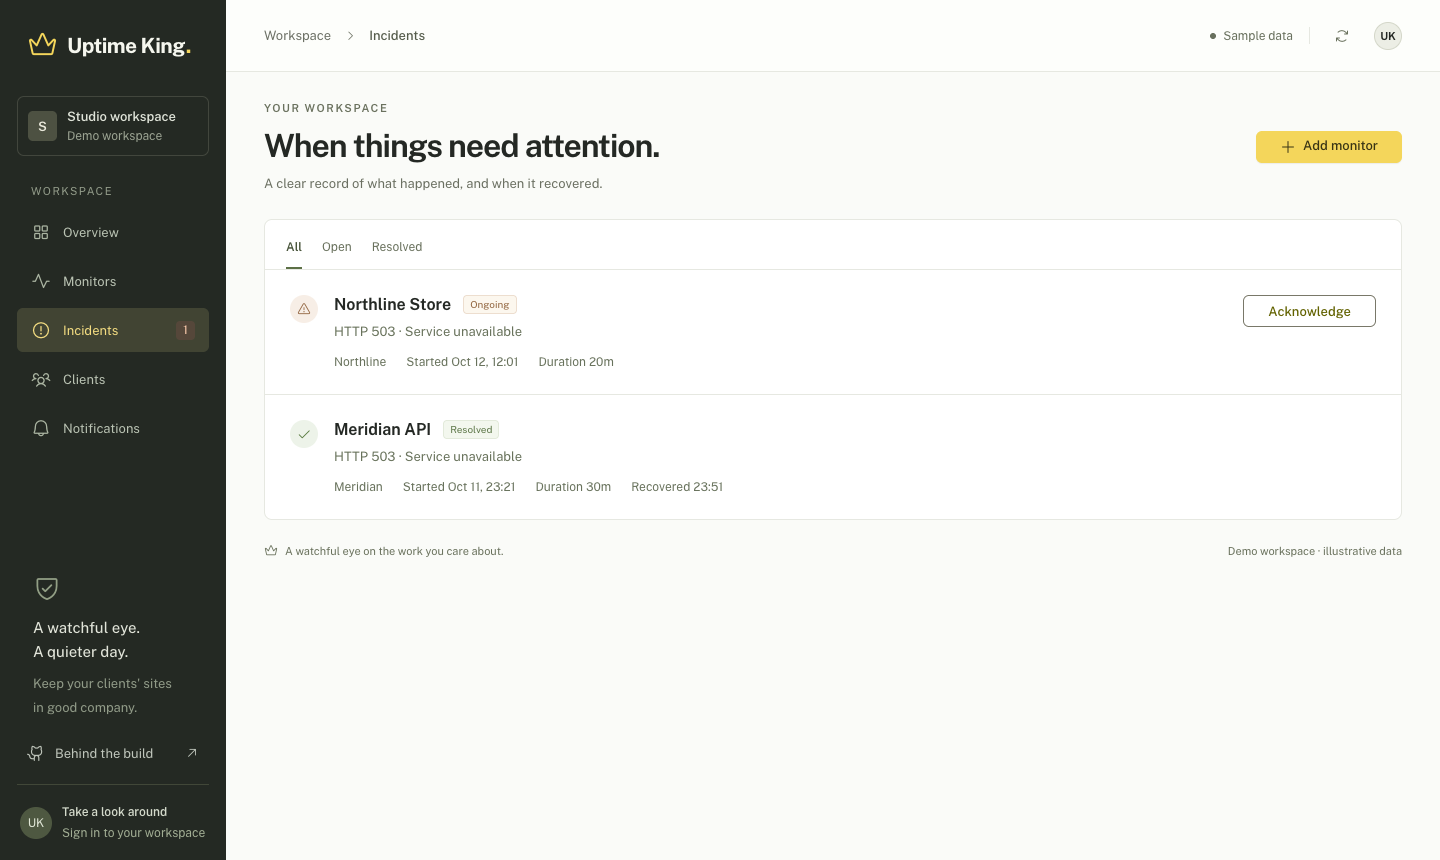
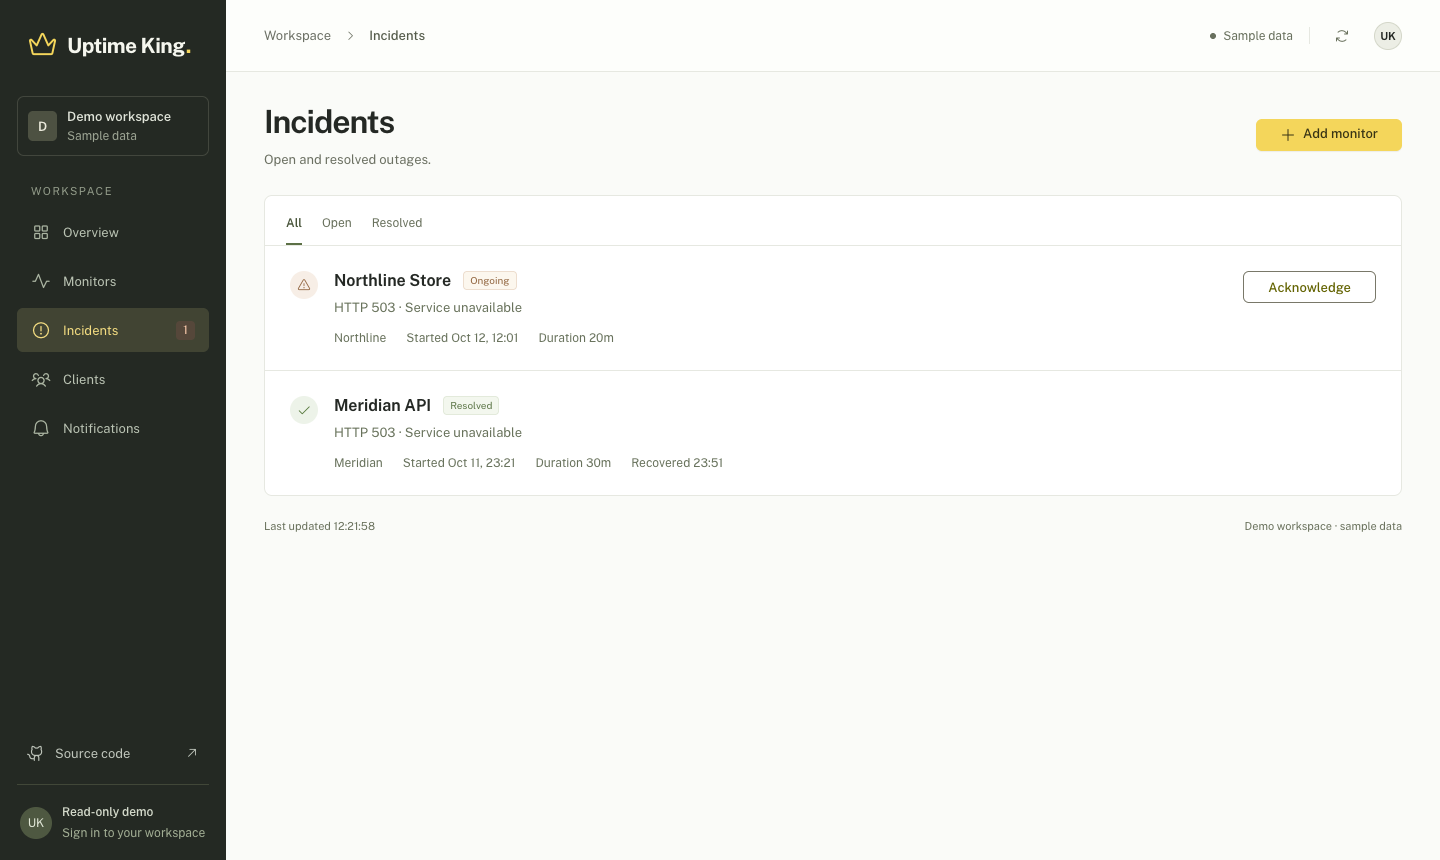
Replace dashboard slogans with direct interface copy

diff --git a/src/UptimeKing.Web/src/app/workspace.html b/src/UptimeKing.Web/src/app/workspace.html
@@ -17,10 +17,10 @@
     King<span class="brand-period">.</span></a
   >
   <div class="workspace-switch">
-    <span class="workspace-avatar">S</span>
+    <span class="workspace-avatar">{{ api.authenticated() ? 'W' : 'D' }}</span>
     <div>
-      <strong>{{ api.authenticated() ? 'Your workspace' : 'Studio workspace' }}</strong
-      ><span>{{ api.authenticated() ? 'Workspace operator' : 'Demo workspace' }}</span>
+      <strong>{{ api.authenticated() ? 'Your workspace' : 'Demo workspace' }}</strong
+      ><span>{{ api.authenticated() ? 'Workspace operator' : 'Sample data' }}</span>
     </div>
   </div>
   <div class="nav-caption">WORKSPACE</div>
@@ -37,25 +37,20 @@
     }
   </nav>
   <div class="sidebar-bottom">
-    <div class="quiet-note">
-      <i class="ph ph-shield-check" aria-hidden="true"></i
-      ><strong>A watchful eye.<br />A quieter day.</strong>
-      <p>Keep your clients' sites<br />in good company.</p>
-    </div>
     <a
       class="source-link"
       href="https://github.com/Vheissu/uptime-king"
       target="_blank"
       rel="noopener"
-      ><i class="ph ph-github-logo" aria-hidden="true"></i>Behind the build<i
+      ><i class="ph ph-github-logo" aria-hidden="true"></i>Source code<i
         class="ph ph-arrow-up-right"
         aria-hidden="true"
       ></i
     ></a>
     <div class="operator">
-      <span class="operator-avatar">{{ api.authenticated() ? 'YO' : 'UK' }}</span>
+      <span class="operator-avatar">{{ api.authenticated() ? 'OP' : 'UK' }}</span>
       <div>
-        <strong>{{ api.authenticated() ? 'Workspace operator' : 'Take a look around' }}</strong
+        <strong>{{ api.authenticated() ? 'Workspace operator' : 'Read-only demo' }}</strong
         ><button (click)="api.authenticated() ? signOut() : signIn()">
           {{ api.authenticated() ? 'Sign out' : 'Sign in to your workspace' }}
         </button>
@@ -97,37 +92,24 @@
         (click)="refresh()"
       >
         <i class="ph ph-arrows-clockwise"></i></button
-      ><span class="small-avatar">{{ api.authenticated() ? 'YO' : 'UK' }}</span>
+      ><span class="small-avatar">{{ api.authenticated() ? 'OP' : 'UK' }}</span>
     </div>
   </header>
   <main id="main" tabindex="-1">
     <div class="page-heading">
       <div>
-        <div class="eyebrow">{{ view === 'overview' ? 'THE BIG PICTURE' : 'YOUR WORKSPACE' }}</div>
-        <h1>
-          {{
-            view === 'overview'
-              ? 'A little peace of mind.'
-              : view === 'monitors'
-                ? 'Every site. In sight.'
-                : view === 'incidents'
-                  ? 'When things need attention.'
-                  : view === 'clients'
-                    ? 'Good work. Good company.'
-                    : 'The right heads-up.'
-          }}
-        </h1>
+        <h1>{{ title }}</h1>
         <p>
           {{
             view === 'overview'
-              ? 'Your client sites, all accounted for.'
+              ? 'Uptime and response times across your client sites.'
               : view === 'monitors'
-                ? 'Keep an eye on the websites and applications you look after.'
+                ? 'Manage checks for your websites and applications.'
                 : view === 'incidents'
-                  ? 'A clear record of what happened, and when it recovered.'
+                  ? 'Open and resolved outages.'
                   : view === 'clients'
-                    ? 'A home for every client you look after.'
-                    : 'Know when a site goes down, and when it comes back.'
+                    ? 'Monitor status grouped by client.'
+                    : 'Email and Discord alerts for outages and recoveries.'
           }}
         </p>
       </div>
@@ -146,7 +128,7 @@
     @if (api.loading()) {
       <div class="loading-state" role="status">
         <div class="loading-line"></div>
-        <p>Getting your workspace ready…</p>
+        <p>Loading monitors…</p>
       </div>
     }
     @if (api.data(); as data) {
@@ -183,9 +165,7 @@
               }}<span class="incident-spark" [class.healthy]="!data.summary.openIncidents"></span
             ></strong>
             <p>
-              {{
-                data.summary.openIncidents ? 'A little attention needed' : 'All quiet on this front'
-              }}
+              {{ data.summary.openIncidents ? 'Unresolved outages' : 'No unresolved outages' }}
             </p>
           </div>
         </section>
@@ -193,7 +173,7 @@
           <a class="incident-banner" routerLink="/incidents"
             ><span class="incident-icon"><i class="ph ph-warning" aria-hidden="true"></i></span
             ><span
-              ><strong>{{ incident.monitorName }} needs your attention.</strong
+              ><strong>{{ incident.monitorName }} is down</strong
               ><span>{{ incident.cause }} · Open for {{ duration(incident) }}</span></span
             ><span class="incident-link"
               >View incident<i class="ph ph-arrow-right" aria-hidden="true"></i></span
@@ -209,7 +189,7 @@
         <section class="monitor-section">
           <div class="section-heading">
             <div class="section-title">
-              <h2>Your monitors</h2>
+              <h2>Monitors</h2>
               <span class="count">{{ data.monitors.length }}</span>
             </div>
             <div class="table-controls">
@@ -340,17 +320,13 @@
                       <div class="empty-state">
                         <i class="ph ph-binoculars" aria-hidden="true"></i>
                         <h3>
-                          {{
-                            data.monitors.length
-                              ? 'No monitors match.'
-                              : 'Your first monitor starts here.'
-                          }}
+                          {{ data.monitors.length ? 'No monitors match.' : 'No monitors yet.' }}
                         </h3>
                         <p>
                           {{
                             data.monitors.length
                               ? 'Try another search or clear your filters.'
-                              : 'Add a client website and we’ll start keeping watch.'
+                              : 'Add a website URL to start recording checks.'
                           }}
                         </p>
                         @if (data.monitors.length) {
@@ -361,7 +337,7 @@
                             Clear filters
                           </button>
                         } @else {
-                          <button mat-flat-button (click)="add()">Add your first monitor</button>
+                          <button mat-flat-button (click)="add()">Add monitor</button>
                         }
                       </div>
                     </td>
@@ -375,7 +351,7 @@
             ><span
               ><i class="ph ph-clock" aria-hidden="true"></i
               >{{
-                data.isDemo ? 'Illustrative check history' : 'Checks run on each monitor’s schedule'
+                data.isDemo ? 'Sample check history' : 'Checks run on each monitor’s schedule'
               }}</span
             >
           </div>
@@ -387,7 +363,7 @@
             <div class="section-heading">
               <div>
                 <h2>Response time</h2>
-                <p>The pace of your portfolio.</p>
+                <p>Hourly averages across all monitors.</p>
               </div>
               <span class="period-label"
                 >Last 24 hours<i class="ph ph-clock" aria-hidden="true"></i
@@ -439,16 +415,14 @@
                 <text x="600" y="202">{{ data.asOf | date: 'HH:mm' }}</text>
               </svg>
             } @else {
-              <div class="empty-chart">
-                Your response history will appear after the first check.
-              </div>
+              <div class="empty-chart">Response history appears after the first check.</div>
             }
           </section>
           <section class="activity-panel">
             <div class="section-heading">
               <div>
                 <h2>Recent incidents</h2>
-                <p>The things worth knowing.</p>
+                <p>Latest outages and recoveries.</p>
               </div>
               <a routerLink="/incidents" class="text-link"
                 >View all<i class="ph ph-arrow-up-right" aria-hidden="true"></i
@@ -477,7 +451,7 @@
               } @empty {
                 <div class="empty-state compact">
                   <i class="ph ph-check-circle" aria-hidden="true"></i>
-                  <p>No incidents to report.</p>
+                  <p>No incidents recorded.</p>
                 </div>
               }
             </div>
@@ -526,7 +500,7 @@
           } @empty {
             <div class="empty-state">
               <i class="ph ph-check-circle" aria-hidden="true"></i>
-              <h3>All quiet here.</h3>
+              <h3>No incidents</h3>
               <p>No {{ incidentFilter() === 'all' ? '' : incidentFilter() }} incidents to show.</p>
             </div>
           }
@@ -555,7 +529,7 @@
             </button>
           } @empty {
             <div class="empty-state">
-              <h3>Meet your first client.</h3>
+              <h3>No clients yet</h3>
               <p>Clients appear here when you add their first monitor.</p>
               <button mat-flat-button (click)="add()">Add a monitor</button>
             </div>
@@ -568,11 +542,8 @@
             <div class="notification-illustration">
               <i class="ph ph-bell-ringing" aria-hidden="true"></i>
             </div>
-            <h2>A heads-up, wherever you work.</h2>
-            <p>
-              Receive incident and recovery alerts by email or in your Discord channel. Sign in to
-              connect your workspace.
-            </p>
+            <h2>Configure notifications</h2>
+            <p>Sign in to choose an email recipient or add a Discord webhook.</p>
             <div class="channel-previews">
               <span><i class="ph ph-envelope-simple" aria-hidden="true"></i>Email</span
               ><span><i class="ph ph-discord-logo" aria-hidden="true"></i>Discord</span>
@@ -592,7 +563,7 @@
                   ></span>
                   <div>
                     <h2>Email</h2>
-                    <p>Incident reports, straight to your inbox.</p>
+                    <p>Send alerts to an email address.</p>
                   </div>
                   <mat-slide-toggle
                     name="emailEnabled"
@@ -624,7 +595,7 @@
                   ></span>
                   <div>
                     <h2>Discord</h2>
-                    <p>Keep your team in the loop.</p>
+                    <p>Post alerts to a Discord channel.</p>
                   </div>
                   <mat-slide-toggle
                     name="discordEnabled"
@@ -682,11 +653,9 @@
         }
       }
       <footer class="page-footer">
-        <span
-          ><i class="ph ph-crown-simple" aria-hidden="true"></i>A watchful eye on the work you care
-          about.</span
-        ><span>{{
-          data.isDemo ? 'Demo workspace · illustrative data' : 'Uptime King · your workspace'
+        <span>Last updated {{ data.asOf | date: 'HH:mm:ss' }}</span>
+        <span>{{
+          data.isDemo ? 'Demo workspace · sample data' : 'Uptime King · your workspace'
         }}</span>
       </footer>
     }

diff --git a/src/UptimeKing.Web/src/app/dialogs.ts b/src/UptimeKing.Web/src/app/dialogs.ts
@@ -22,13 +22,11 @@ const imports = [
   selector: 'uk-monitor-dialog',
   imports,
   template: ` <h2 mat-dialog-title>
-      {{ original ? 'Edit monitor' : 'A new site to look after.' }}
+      {{ original ? 'Edit monitor' : 'Add monitor' }}
     </h2>
     <form (ngSubmit)="save()" #form="ngForm">
       <mat-dialog-content>
-        <p class="dialog-intro">
-          Check a public website or application. We'll keep the history and flag repeated failures.
-        </p>
+        <p class="dialog-intro">Monitor a public HTTP or HTTPS endpoint.</p>
         <mat-form-field appearance="outline"
           ><mat-label>Monitor name</mat-label
           ><input
@@ -122,11 +120,11 @@ export class MonitorDialog {
 @Component({
   selector: 'uk-login-dialog',
   imports,
-  template: ` <h2 mat-dialog-title>Your workspace, at a glance.</h2>
+  template: ` <h2 mat-dialog-title>Sign in</h2>
     <form (ngSubmit)="login()" #form="ngForm">
       <mat-dialog-content>
         <p class="dialog-intro">
-          Sign in with your workspace password to add monitors and manage notifications.
+          Enter your workspace password to manage monitors and notifications.
         </p>
         <mat-form-field appearance="outline"
           ><mat-label>Workspace password</mat-label
@@ -145,7 +143,7 @@ export class MonitorDialog {
           For a local installation, use the password in your .env file.
         </p> </mat-dialog-content
       ><mat-dialog-actions align="end"
-        ><button type="button" mat-button mat-dialog-close>Keep exploring</button
+        ><button type="button" mat-button mat-dialog-close>Cancel</button
         ><button mat-flat-button type="submit" [disabled]="form.invalid || busy()">
           {{ busy() ? 'Signing in…' : 'Sign in' }}
         </button></mat-dialog-actions

diff --git a/src/UptimeKing.Web/src/styles.scss b/src/UptimeKing.Web/src/styles.scss
@@ -224,27 +224,6 @@ nav a {
 .sidebar-bottom {
   margin-top: auto;
 }
-.quiet-note {
-  margin: 42px 16px 25px;
-  > i {
-    display: block;
-    font-size: 28px;
-    color: #929f85;
-    margin-bottom: 14px;
-  }
-  strong {
-    font-size: 15px;
-    font-weight: 450;
-    line-height: 1.6;
-    color: #e1e4d9;
-  }
-  p {
-    color: #919b88;
-    font-size: 13px;
-    line-height: 1.8;
-    margin-top: 8px;
-  }
-}
 .source-link {
   display: flex;
   align-items: center;
@@ -379,13 +358,6 @@ main {
   align-items: center;
   gap: 20px;
   margin-bottom: 28px;
-}
-.eyebrow {
-  font-size: 11px;
-  letter-spacing: 1.6px;
-  color: #6a715e;
-  font-weight: 600;
-  margin-bottom: 12px;
 }
 h1 {
   font-size: 32px;
@@ -1489,9 +1461,6 @@ mat-form-field {
     .primary-action {
       margin-top: 0;
     }
-  }
-  .eyebrow {
-    font-size: 10px;
   }
   .metrics {
     grid-template-columns: 1fr 1fr;

diff --git a/src/UptimeKing.Web/src/index.html b/src/UptimeKing.Web/src/index.html
@@ -2,13 +2,13 @@
 <html lang="en">
   <head>
     <meta charset="utf-8" />
-    <title>Uptime King · A little peace of mind.</title>
+    <title>Uptime King · Client site monitoring</title>
     <base href="/" />
     <meta name="viewport" content="width=device-width, initial-scale=1" />
     <link rel="icon" type="image/svg+xml" href="favicon.svg" />
     <meta
       name="description"
-      content="An uptime dashboard for people who look after client websites. Monitor health, investigate incidents, and get notified when it matters."
+      content="Monitor client websites and applications, track response times and incidents, and receive email or Discord alerts."
     />
     <meta name="theme-color" content="#242923" />
   </head>

diff --git a/README.md b/README.md
@@ -1,7 +1,7 @@
 <div align="center">
   <img src="src/UptimeKing.Web/public/favicon.svg" width="64" height="64" alt="Uptime King crown">
   <h1>Uptime King</h1>
-  <p>A little peace of mind for the sites you look after.</p>
+  <p>Uptime monitoring for client websites and applications.</p>
 
 [![CI](https://github.com/Vheissu/uptime-king/actions/workflows/ci.yml/badge.svg)](https://github.com/Vheissu/uptime-king/actions/workflows/ci.yml)
 ![.NET 10](https://img.shields.io/badge/.NET-10-512BD4)
@@ -9,7 +9,7 @@
 [![MIT](https://img.shields.io/badge/license-MIT-242824)](LICENSE)
 </div>
 
-Uptime King keeps an eye on client websites and applications. Group monitors by client, spot a failing site, inspect its check history, and get an email or Discord notification when it goes down or recovers.
+Uptime King monitors client websites and applications. Group monitors by client, spot a failing site, inspect its check history, and get an email or Discord notification when it goes down or recovers.
 
 Built with ASP.NET Core, Angular and PostgreSQL. The scheduler, incident tracking, live updates and notification delivery all run locally. Docker Compose gets the whole application running; .NET Aspire gives you a development environment with resource health, traces and metrics.
 
